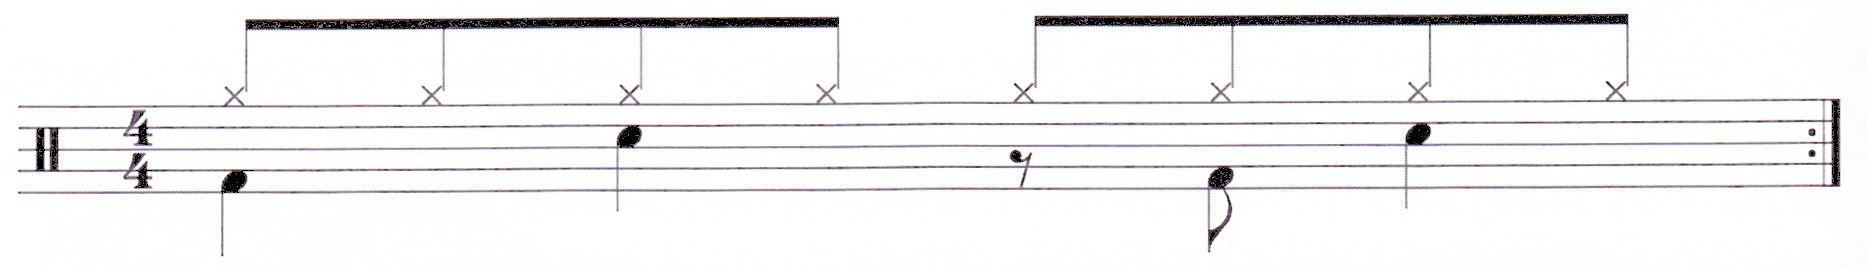
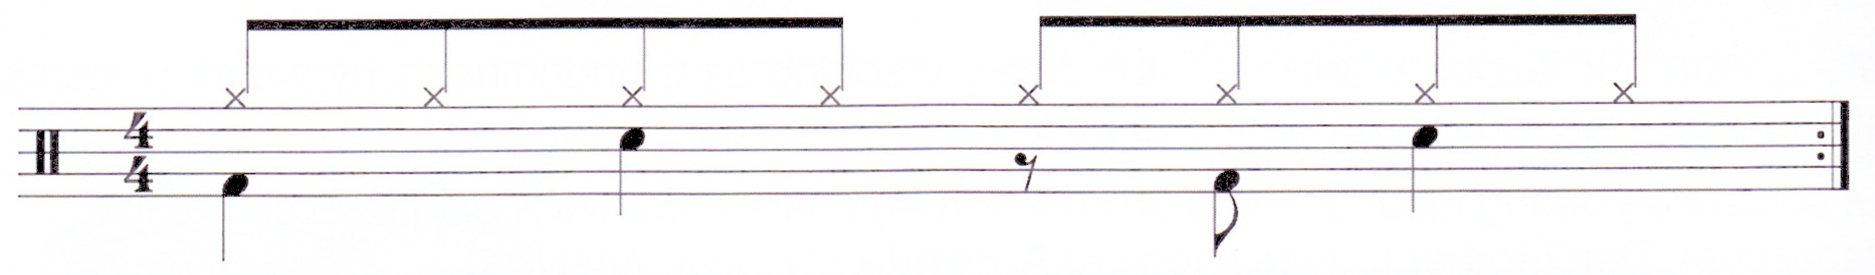
Started to add drum hit effects

diff --git a/src/App.tsx b/src/App.tsx
@@ -1,11 +1,12 @@
 import { Canvas } from "@react-three/fiber";
-import { Box, Sky, Stage, OrbitControls } from "@react-three/drei";
+import { Sky, Stage, OrbitControls } from "@react-three/drei";
 import { SCENE } from "./state/Config";
 import Info from "./UI/Info";
 import { DrumKit2 } from "./models/DrumKit2";
 import { Suspense } from "react";
 import Score from "./UI/Score";
 import TimeLine from "./UI/TimeLine";
+import Effects from "./components/Effects";
 
 function App() {
   return (
@@ -20,6 +21,7 @@ function App() {
         <Stage adjustCamera={false} shadows="contact" environment="city">
           <Suspense fallback={null}>
             <DrumKit2 rotation-y={Math.PI} />
+            <Effects />
           </Suspense>
         </Stage>
         <OrbitControls

diff --git a/src/state/store.ts b/src/state/store.ts
@@ -5,6 +5,8 @@ interface DrumState {
   setShowInfoDialog: (status: boolean) => void;
   groove: string;
   setGroove: (groove: string) => void;
+  hihatEffect: boolean;
+  showHiHatEffect: (status: boolean) => void;
 }
 
 const useStore = create<DrumState>((set) => ({
@@ -12,6 +14,8 @@ const useStore = create<DrumState>((set) => ({
   groove: "1",
   setGroove: (newGroove) => set(() => ({ groove: newGroove })),
   setShowInfoDialog: (status) => set(() => ({ infoDialogOpen: status })),
+  hihatEffect: true,
+  showHiHatEffect: (status) => set(() => ({ hihatEffect: status })),
 }));
 
 export default useStore;

diff --git a/src/components/Effects.tsx b/src/components/Effects.tsx
@@ -1,0 +1,18 @@
+import { Sphere } from "@react-three/drei";
+import useStore from "../state/store";
+
+const Effects = () => {
+  const hihatEffect = useStore((state) => state.hihatEffect);
+
+  return (
+    <>
+      {hihatEffect && (
+        <Sphere scale={0.04} position={[-1.1, 0.15, 0.3]}>
+          <meshStandardMaterial color="red" />
+        </Sphere>
+      )}
+    </>
+  );
+};
+
+export default Effects;
